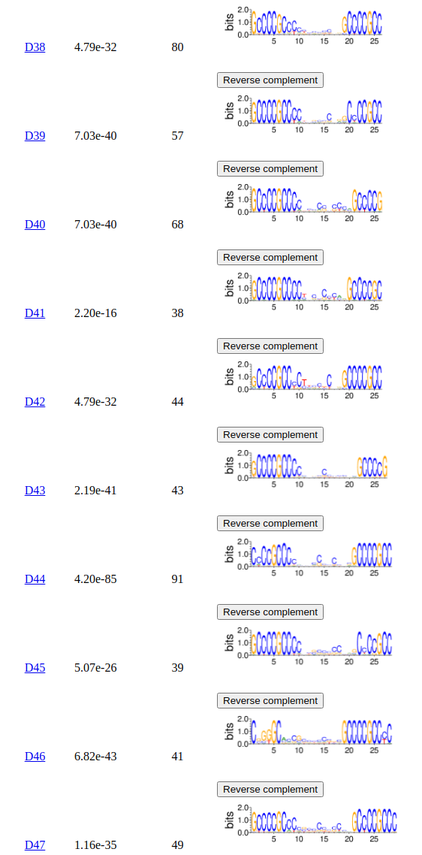
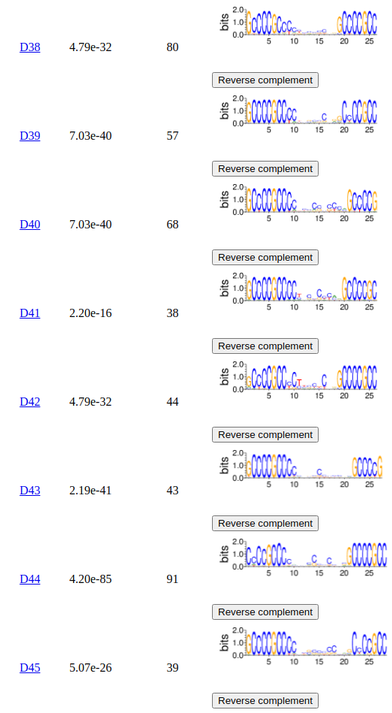
update readme

diff --git a/README.md b/README.md
@@ -95,11 +95,13 @@ For instance, here is an example result page showcasing data from the  [SP1 tran
 ![image info](./imgs/re_top.png)
 
 The top of the result page has
+- Number of sequences: The total number of DNA sequences in the dataset.
 - labels: A number assigned for each discovered motifs.
     * Each label is hyperlinked to a text file in TRANSFAC format that can be parsed.
 - p-value: The satistical significance of the discovered motif using Fisher exact test ([Manuscript section 2.7.2](https://academic.oup.com/bioinformatics/advance-article-abstract/doi/10.1093/bioinformatics/btad378/7192989?utm_source=advanceaccess&utm_campaign=bioinformatics&utm_medium=email)).
 - instances: An estimate of the number of occurrences in the dataset ([Manuscript section 2.7.3](https://academic.oup.com/bioinformatics/advance-article-abstract/doi/10.1093/bioinformatics/btad378/7192989?utm_source=advanceaccess&utm_campaign=bioinformatics&utm_medium=email)).
 - logo: Position weight matricies.
+    * Press the *reverse complement* button to view the logo in alternative orientation.
 
 
 Note that in in-vivo datasets, especially for zinc-finger proteins, a large number of motifs can be observed, often characterized by variable spacings in their binding sites.
